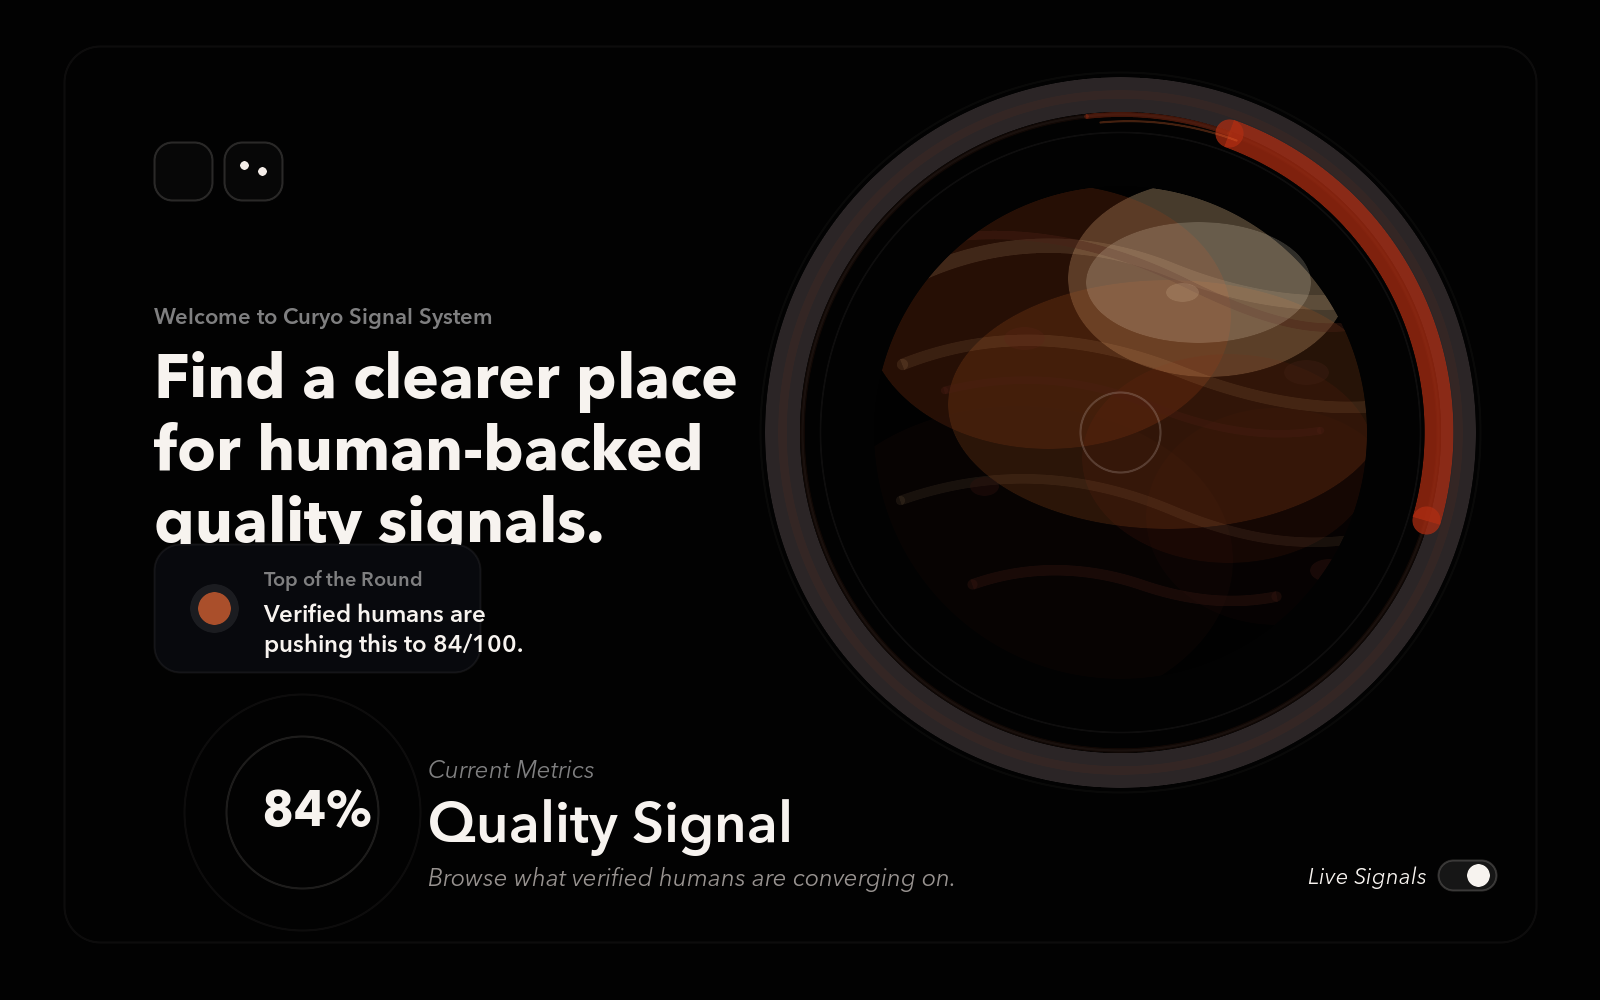
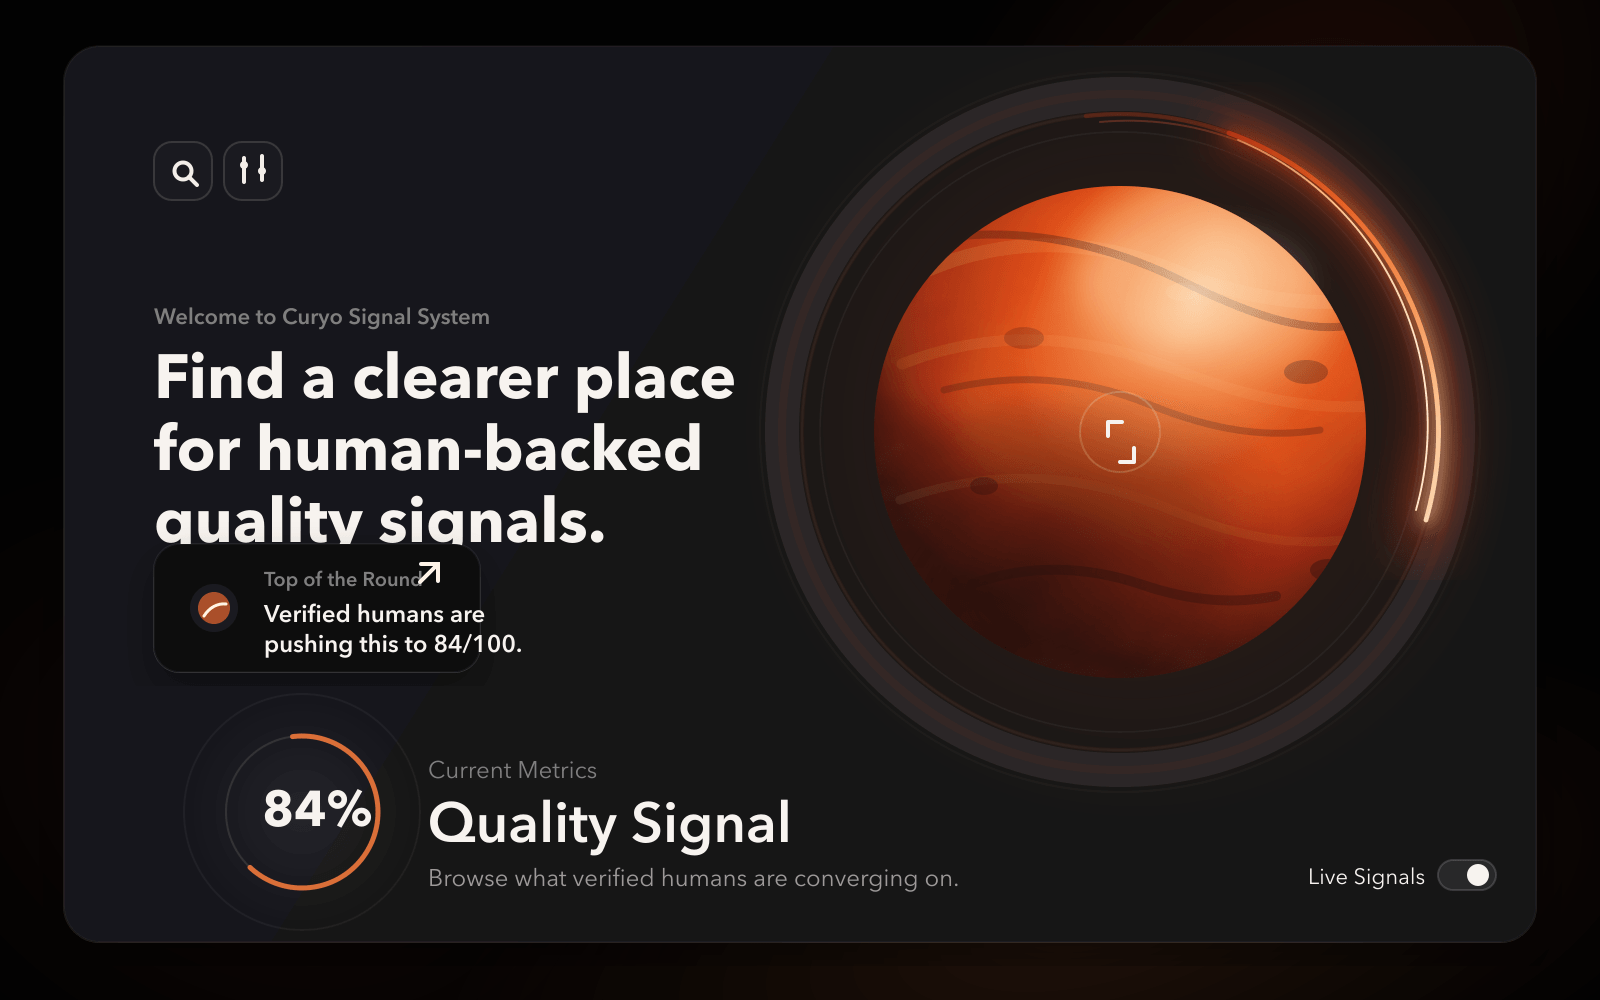
Regenerate design mockup PNG previews

diff --git a/docs/design-mockups/README.md b/docs/design-mockups/README.md
@@ -1,42 +1,35 @@
-# Cleaner Design Mock-ups
+# Design Mock-ups
 
-These are two standalone visual concepts for Curyo, created as review artifacts rather than production UI.
+These are standalone review artifacts rather than production UI.
 
-## Concepts
+## Current Files
 
-1. `planet-flare-signal.svg`
-   Inspired by the Spacefox reference.
-   Large cinematic signal planet, dark interface shell, and a bright orbital flare that can map to rating activity or live reputation flow.
-   Preview export: `planet-flare-signal.png`
-
-2. `soft-orb-discover.svg`
-   Inspired by the Better Problems reference.
-   Softer ambient gradients, a larger color-washed orb, and a calmer Discover surface with cleaner signal chips and rating modules.
-   Preview export: `soft-orb-discover.png`
-
-3. `planet-flare-landing.svg`
-   Refined SpaceFox-inspired landing page mock-up using the current Curyo hero and "How it Works" structure.
+1. `planet-flare-landing.svg`
+   Landing page mock-up using the current Curyo hero and "How it Works" structure.
    Preview export: `planet-flare-landing.png`
 
-4. `planet-flare-discover.svg`
-   Refined SpaceFox-inspired Discover page mock-up using the current voting layout, filter bar, signal card, and queue.
-   Preview export: `planet-flare-discover.png`
-
-5. `planet-flare-spacefox-theme.svg`
-   A closer SpaceFox-dashboard interpretation with warmer charcoal/rust UI treatment and a rounder geometric font feel, while keeping the Curyo multicolor signal planet.
+2. `planet-flare-spacefox-theme.svg`
+   Warmer Spacefox-style dashboard direction built around the multicolor signal planet.
    Preview export: `planet-flare-spacefox-theme.png`
 
-6. `planet-flare-logo-exploration.svg`
-   Logo exploration board for replacing the lighthouse mark with a planet-plus-flare system.
+3. `planet-flare-logo-exploration.svg`
+   Logo exploration board for the planet-plus-flare direction.
    Preview export: `planet-flare-logo-exploration.png`
 
-7. `logo-rollout-plan.md`
-   Concrete replacement plan covering the shared React mark, public brand assets, favicon, banner, and landing-page hero animation.
+4. `logo-rollout-plan.md`
+   Rollout plan for replacing the shared brand assets.
+
+## PNG Export
+
+The PNG previews are generated from the SVG sources with:
+
+```bash
+node docs/design-mockups/render-pngs.mjs
+```
+
+This keeps the raster previews in sync with the editable SVG artwork.
 
 ## Notes
 
-- Both concepts keep the current "signal planet" idea, but push it further as the main visual anchor.
-- The refined `planet-flare-*` versions are closer to the current product layouts and add a more three-dimensional orb, fire-like orbit, and faint containment rings.
-- The logo exploration board focuses on how the planet+flare system could scale from standalone badge to full lockup.
 - These are mock-ups only.
 - The live app was reverted separately and is not using these designs.
